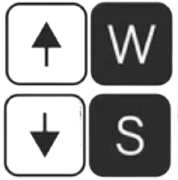
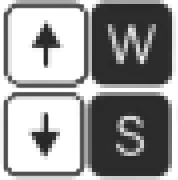
fondo tienda y cambio foto teclas

diff --git a/index.html b/index.html
@@ -48,10 +48,10 @@
             <div id="controles">
             Controles: <br>  
                 <div class="controles">
-                    <img id="esc" src="media/esc.png"> Alternar entre el modo pausa <br>y el modo de juego <br>
+                    <img id="esc" src="media/space3.png"> Alternar entre el modo pausa <br>y el modo de juego <br>
                 </div>
                 <div class="controles">
-                    <img id="mov" src="media/mov.png"> Teclas de movimiento del <br>personaje
+                    <div id="mov2"><img id="mov" src="media/mov2.png"></div> Teclas de movimiento del <br>personaje
                 </div>
             </div>
         <input type="button" value="Créditos" id="credit" onclick="creditos()">
@@ -96,14 +96,14 @@
 
       
             <div id="controles">
-            Controles: <br>  
-                <div class="controles">
-                    <img id="esc" src="media/esc.png"> Alternar entre el modo pausa <br>y el modo de juego <br>
+                Controles: <br>  
+                    <div class="controles">
+                        <img id="esc" src="media/space3.png"> Alternar entre el modo pausa <br>y el modo de juego <br>
+                    </div>
+                    <div class="controles">
+                        <div id="mov2"><img id="mov" src="media/mov2.png"></div> Teclas de movimiento del <br>personaje
+                    </div>
                 </div>
-                <div class="controles">
-                    <img id="mov" src="media/mov.png"> Teclas de movimiento del <br>personaje
-                </div>
-            </div>
         
         </div>
         <input type="button" value="back" id="back" class="back">

diff --git a/css/pantalla.css b/css/pantalla.css
@@ -218,8 +218,10 @@ user-select: none;
     width: 80%;
     margin: 0 auto;
     position: absolute;
-    background-color: rgba(4, 4, 4, 0.581);
-    top: 18%;
+    background-image: url('../media/fondotienda.png');
+    background-size: cover;
+    background-repeat: no-repeat;
+    top: 17%;
     z-index: 1; 
   }
 
@@ -274,8 +276,10 @@ user-select: none;
     width: 80%;
     margin: 0 auto;
     position: absolute;
-    background-color: rgba(4, 4, 4, 0.581);
-    top: 18%;
+    background-image: url('../media/fondotienda.png');
+    background-size: cover;
+    background-repeat: no-repeat;
+    top: 17%;
     z-index: 1; 
   }
 
@@ -333,7 +337,20 @@ user-select: none;
     gap: 59px;
   }
 
-  #esc, #mov{
+  #esc{
+    width: 200px;
+
+  }
+  
+  #mov2{
+    width: 200px;
+    display: flex;
+    gap: 59px;
+    justify-content: center;
+    align-items: center;
+  }
+
+  #mov{
     width: 100px;
   }
 
